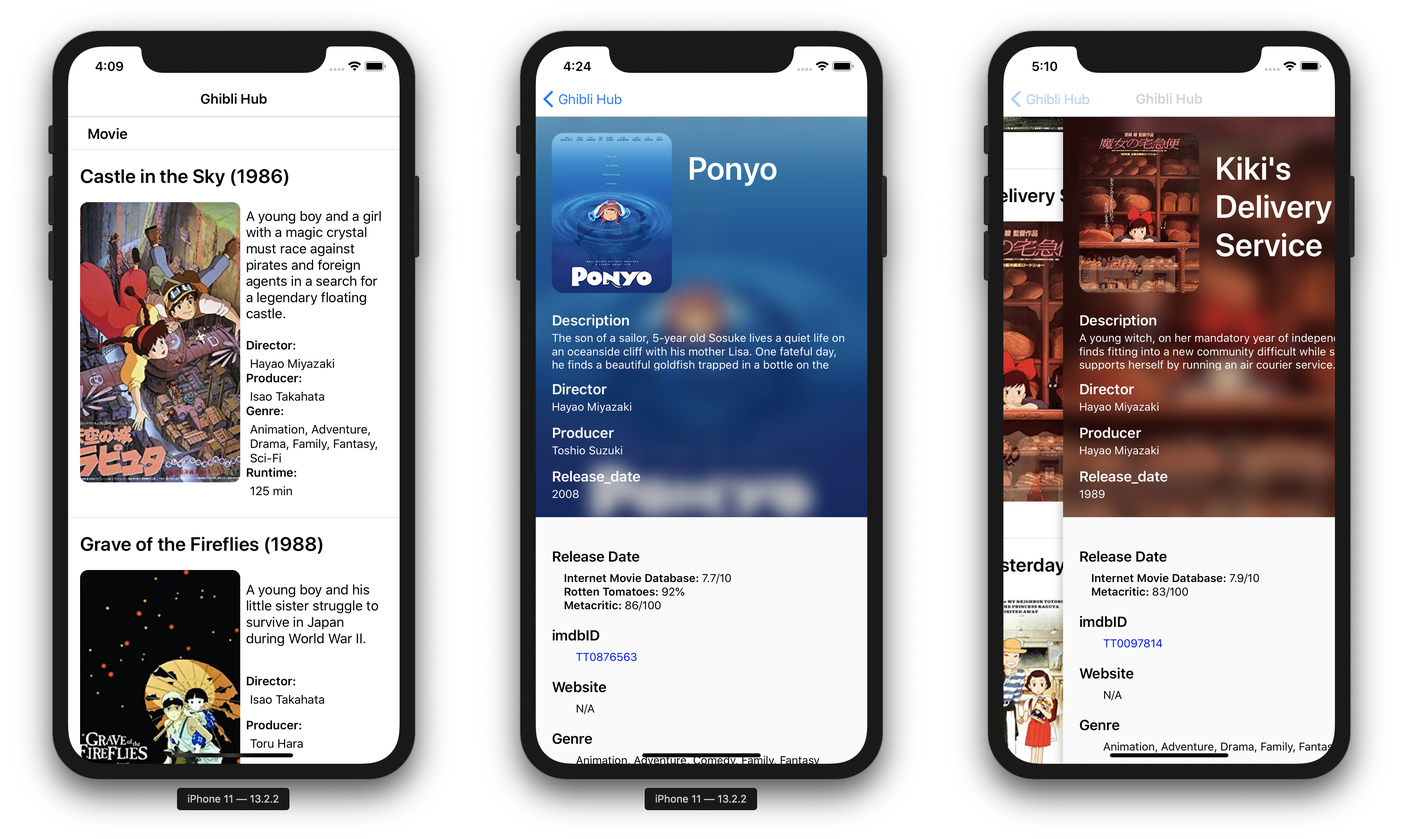
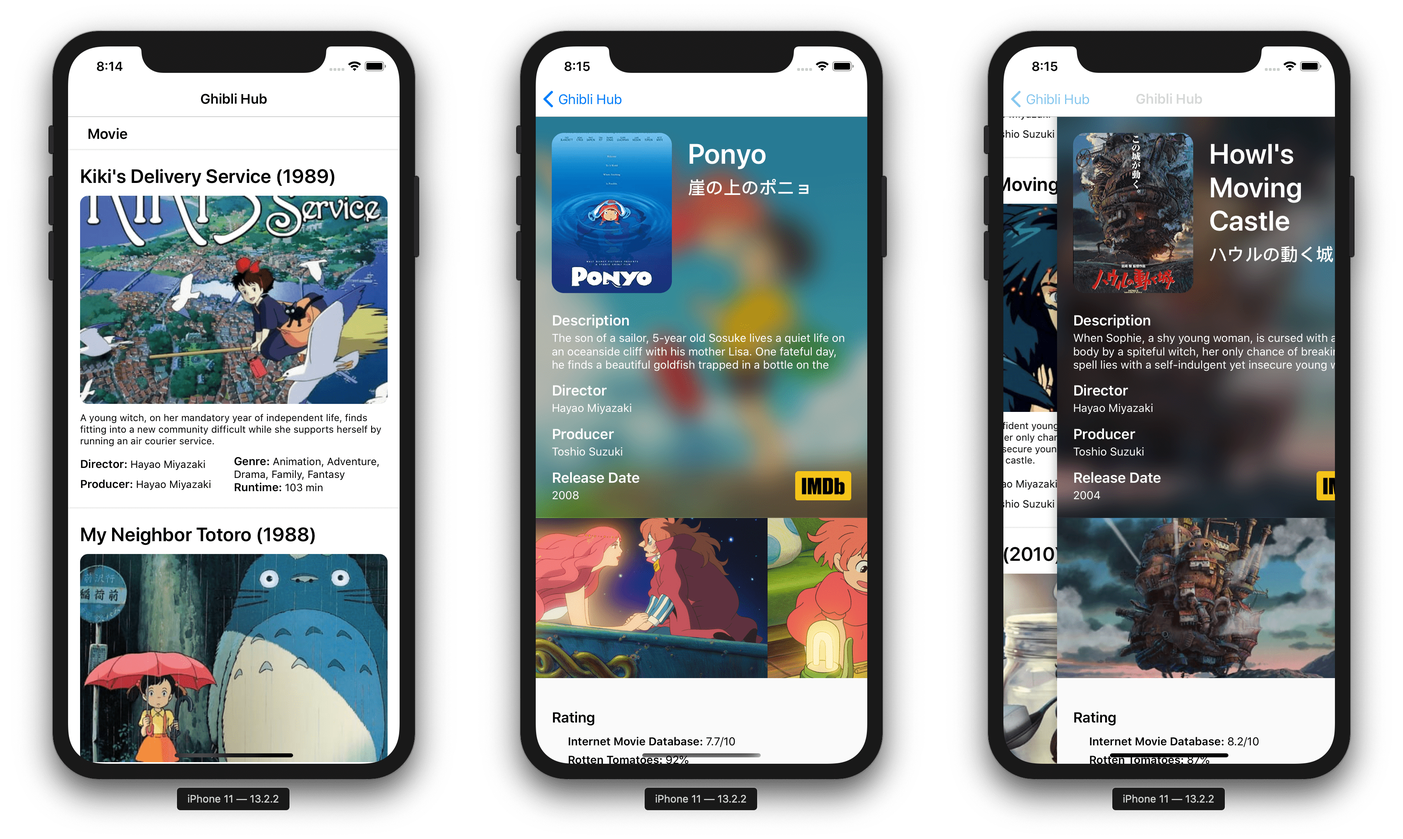
Update Readme

diff --git a/Readme.md b/Readme.md
@@ -2,20 +2,19 @@
 
 ![](./screenshots/merge_from_ofoct.png)
 
-## 
-A React Native App for listing all films in Ghibli Studio.
+One iOS & Android mobile application by using React-native framework async calling public Open RESTful Apis (e.g. Studio Ghibli Api, TMDb Api), as well as AniList GraphQL Api, for fetching movie info and stage photos of firms made by Studio Ghibli.
 
 ## Build 
 _Test for ios only_
 
 ``` bash
-cd yarn install
+yarn install
 
 cd ios
 pod install
 # prevent 'null is not an object' error
 
-# Modify API KEY in `env.js`
+# Modify API KEYs & CUSTOMIZED_GOOGLE_SEATCH in `env.js`
 
 npm run ios8 #run Iphone 8 Simulator
 #npm run ios8p #run Iphone 8 Plus Simulator
@@ -24,8 +23,12 @@ npm run ios8 #run Iphone 8 Simulator
 
 ## Update Log
 _11/24/2019_
+- Integrate with [themoviedbAPI](//www.themoviedb.org/documentation/api) & [Google Custom Search API](//developers.google.com/custom-search)
+- Improve detail pages with highlight photos
+
+_11/23/2019_
 - init project, with basic home, and detail pages
-- Integate with [omdbapi](www.omdbapi.com) & [ghibliapi](https://ghibliapi.herokuapp.com/)
+- Integrate with [omdbapi](//omdbapi.com) & [ghibliapi](//ghibliapi.herokuapp.com/)
 
 ## License
-MIT @ Vince Cao
+MIT @ [Vince Cao](//vince-amazing.com)
